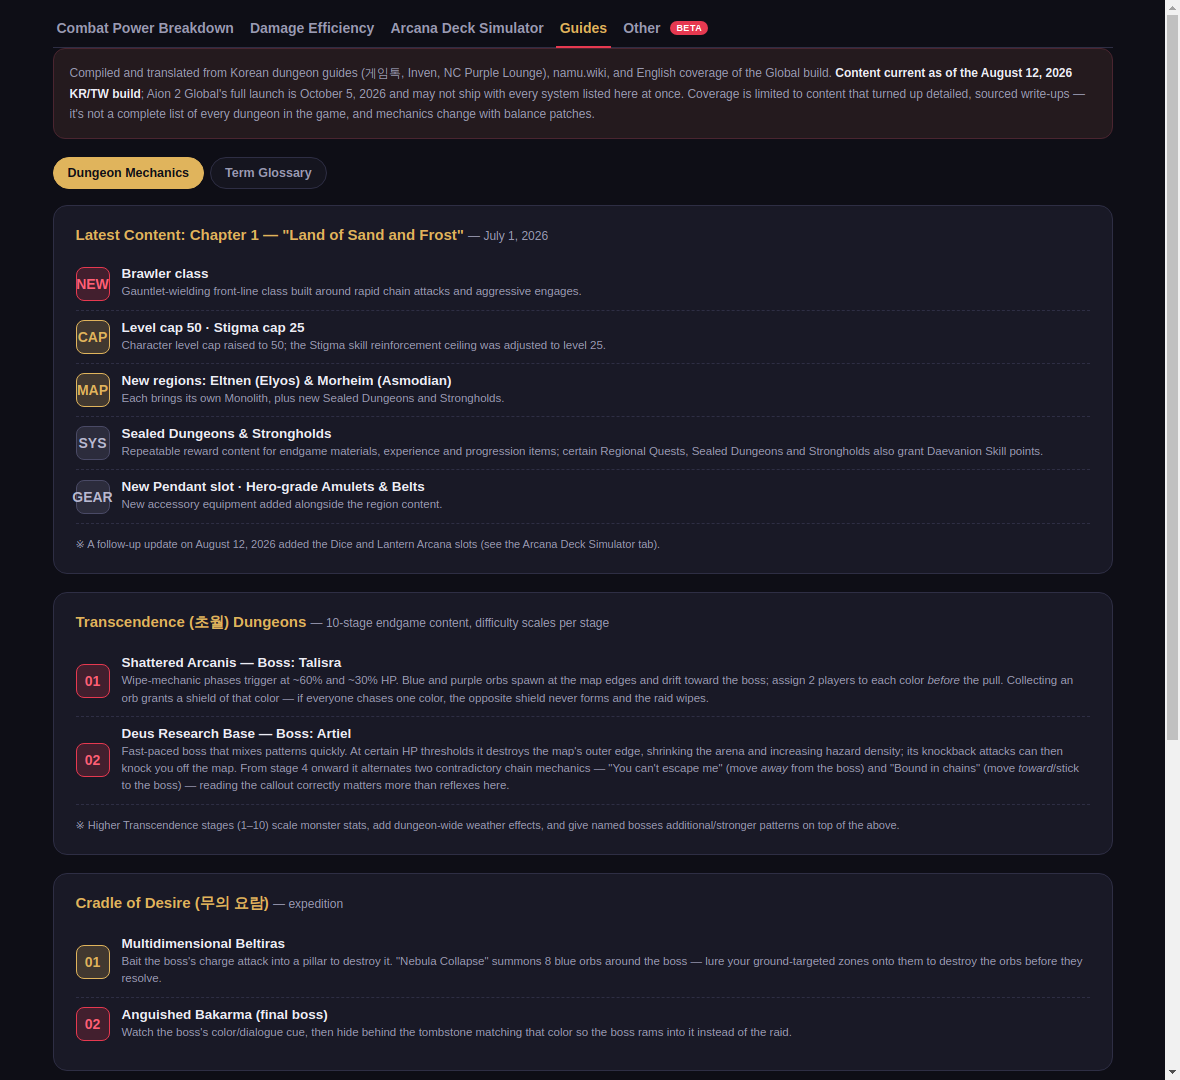
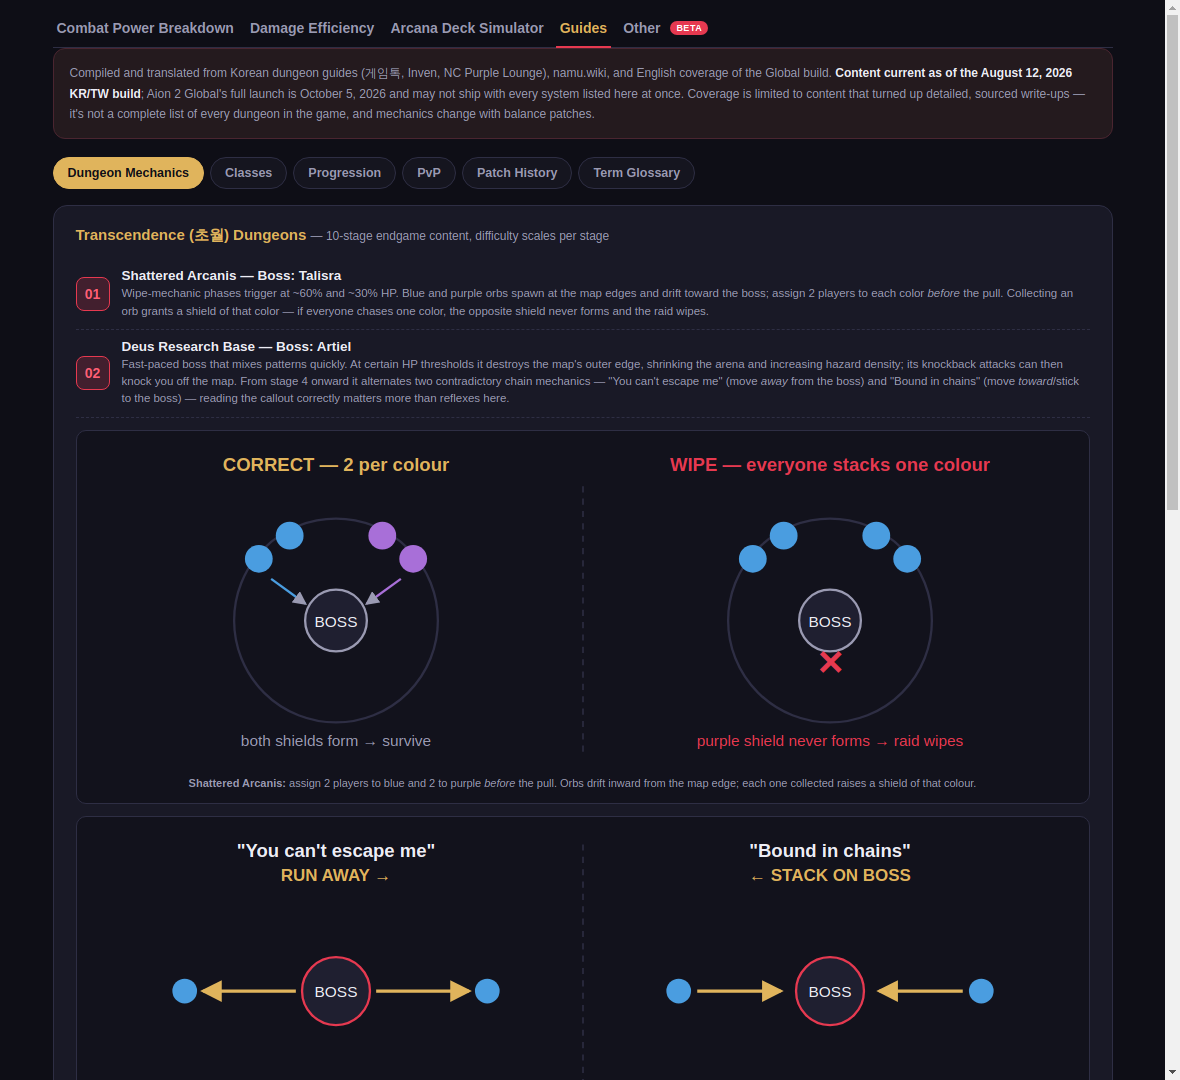
Restructure Guides into 6 categories, add mechanic diagrams
Splits Guides into Dungeon Mechanics (now with three original inline-SVG
boss-mechanic diagrams), Classes, Progression, PvP, Patch History and
Term Glossary — moving Chapter 1 patch content out of Dungeon Mechanics
where it didn't belong.

Claude-Session: https://claude.ai/code/session_01SQ6BczPMuWFshtfUDpAGGM

diff --git a/src/index.html b/src/index.html
@@ -88,6 +88,9 @@
   .subtabpanel{display:none;margin-top:16px}
   .subtabpanel.active{display:block}
   .beta-badge{display:inline-block;background:var(--red);color:#fff;font-size:9px;font-weight:800;letter-spacing:.5px;padding:2px 6px;border-radius:999px;margin-left:6px;vertical-align:middle;position:relative;top:-1px}
+  .diagram{background:#12121c;border:1px solid var(--line);border-radius:10px;padding:12px;margin-top:12px;overflow-x:auto}
+  .diagram svg{display:block;max-width:100%;height:auto;margin:0 auto}
+  .diagram .cap{font-size:11px;color:var(--muted);text-align:center;margin-top:8px;line-height:1.5}
   /* checklist */
   .chk-item{display:flex;align-items:flex-start;gap:10px;padding:8px 0;border-bottom:1px dashed var(--line)}
   .chk-item:last-child{border-bottom:none}
@@ -404,25 +407,68 @@
     </div>
     <div class="subtabs">
       <button class="subtab-btn active" data-subtab="dungeons">Dungeon Mechanics</button>
+      <button class="subtab-btn" data-subtab="classes">Classes</button>
+      <button class="subtab-btn" data-subtab="progression">Progression</button>
+      <button class="subtab-btn" data-subtab="pvp">PvP</button>
+      <button class="subtab-btn" data-subtab="patches">Patch History</button>
       <button class="subtab-btn" data-subtab="glossary">Term Glossary</button>
     </div>
 
     <!-- Dungeon Mechanics -->
     <div id="sub-dungeons" class="subtabpanel active">
       <div class="card">
-        <h2>Latest Content: Chapter 1 — "Land of Sand and Frost" <span style="color:var(--muted);font-weight:400;font-size:12px">— July 1, 2026</span></h2>
-        <div class="tier-row"><div class="tier-badge tier-S">NEW</div><div><div class="tier-name">Brawler class</div><div class="tier-desc">Gauntlet-wielding front-line class built around rapid chain attacks and aggressive engages.</div></div></div>
-        <div class="tier-row"><div class="tier-badge tier-A">CAP</div><div><div class="tier-name">Level cap 50 · Stigma cap 25</div><div class="tier-desc">Character level cap raised to 50; the Stigma skill reinforcement ceiling was adjusted to level 25.</div></div></div>
-        <div class="tier-row"><div class="tier-badge tier-A">MAP</div><div><div class="tier-name">New regions: Eltnen (Elyos) & Morheim (Asmodian)</div><div class="tier-desc">Each brings its own Monolith, plus new Sealed Dungeons and Strongholds.</div></div></div>
-        <div class="tier-row"><div class="tier-badge tier-B">SYS</div><div><div class="tier-name">Sealed Dungeons & Strongholds</div><div class="tier-desc">Repeatable reward content for endgame materials, experience and progression items; certain Regional Quests, Sealed Dungeons and Strongholds also grant Daevanion Skill points.</div></div></div>
-        <div class="tier-row"><div class="tier-badge tier-B">GEAR</div><div><div class="tier-name">New Pendant slot · Hero-grade Amulets & Belts</div><div class="tier-desc">New accessory equipment added alongside the region content.</div></div></div>
-        <div class="note">※ A follow-up update on August 12, 2026 added the Dice and Lantern Arcana slots (see the Arcana Deck Simulator tab).</div>
-      </div>
-
-      <div class="card" style="margin-top:18px">
         <h2>Transcendence (초월) Dungeons <span style="color:var(--muted);font-weight:400;font-size:12px">— 10-stage endgame content, difficulty scales per stage</span></h2>
         <div class="tier-row"><div class="tier-badge tier-S">01</div><div><div class="tier-name">Shattered Arcanis — Boss: Talisra</div><div class="tier-desc">Wipe-mechanic phases trigger at ~60% and ~30% HP. Blue and purple orbs spawn at the map edges and drift toward the boss; assign 2 players to each color <i>before</i> the pull. Collecting an orb grants a shield of that color — if everyone chases one color, the opposite shield never forms and the raid wipes.</div></div></div>
         <div class="tier-row"><div class="tier-badge tier-S">02</div><div><div class="tier-name">Deus Research Base — Boss: Artiel</div><div class="tier-desc">Fast-paced boss that mixes patterns quickly. At certain HP thresholds it destroys the map's outer edge, shrinking the arena and increasing hazard density; its knockback attacks can then knock you off the map. From stage 4 onward it alternates two contradictory chain mechanics — "You can't escape me" (move <i>away</i> from the boss) and "Bound in chains" (move <i>toward</i>/stick to the boss) — reading the callout correctly matters more than reflexes here.</div></div></div>
+
+        <div class="diagram">
+          <svg viewBox="0 0 640 210" role="img" aria-label="Shattered Arcanis orb and shield assignment diagram">
+            <text x="160" y="18" text-anchor="middle" fill="#e0b45c" font-size="12" font-weight="700" font-family="sans-serif">CORRECT — 2 per colour</text>
+            <text x="480" y="18" text-anchor="middle" fill="#e63950" font-size="12" font-weight="700" font-family="sans-serif">WIPE — everyone stacks one colour</text>
+            <line x1="320" y1="28" x2="320" y2="200" stroke="#2e2e44" stroke-width="1" stroke-dasharray="4 4"/>
+            <circle cx="160" cy="115" r="66" fill="none" stroke="#2e2e44" stroke-width="1.5"/>
+            <circle cx="160" cy="115" r="20" fill="#1f1f30" stroke="#9a9ab2" stroke-width="1.5"/>
+            <text x="160" y="119" text-anchor="middle" fill="#ededf5" font-size="10" font-family="sans-serif">BOSS</text>
+            <circle cx="110" cy="75" r="9" fill="#4a9de0"/><circle cx="130" cy="60" r="9" fill="#4a9de0"/>
+            <circle cx="190" cy="60" r="9" fill="#a86fd8"/><circle cx="210" cy="75" r="9" fill="#a86fd8"/>
+            <path d="M118 88 L140 104" stroke="#4a9de0" stroke-width="1.5" marker-end="url(#ah)"/>
+            <path d="M202 88 L180 104" stroke="#a86fd8" stroke-width="1.5" marker-end="url(#ah)"/>
+            <text x="160" y="196" text-anchor="middle" fill="#9a9ab2" font-size="10" font-family="sans-serif">both shields form → survive</text>
+            <circle cx="480" cy="115" r="66" fill="none" stroke="#2e2e44" stroke-width="1.5"/>
+            <circle cx="480" cy="115" r="20" fill="#1f1f30" stroke="#9a9ab2" stroke-width="1.5"/>
+            <text x="480" y="119" text-anchor="middle" fill="#ededf5" font-size="10" font-family="sans-serif">BOSS</text>
+            <circle cx="430" cy="75" r="9" fill="#4a9de0"/><circle cx="450" cy="60" r="9" fill="#4a9de0"/>
+            <circle cx="510" cy="60" r="9" fill="#4a9de0"/><circle cx="530" cy="75" r="9" fill="#4a9de0"/>
+            <text x="480" y="150" text-anchor="middle" fill="#e63950" font-size="22" font-weight="800" font-family="sans-serif">✕</text>
+            <text x="480" y="196" text-anchor="middle" fill="#e63950" font-size="10" font-family="sans-serif">purple shield never forms → raid wipes</text>
+            <defs><marker id="ah" markerWidth="6" markerHeight="6" refX="5" refY="3" orient="auto"><path d="M0,0 L6,3 L0,6 z" fill="#9a9ab2"/></marker></defs>
+          </svg>
+          <div class="cap"><b>Shattered Arcanis:</b> assign 2 players to blue and 2 to purple <i>before</i> the pull. Orbs drift inward from the map edge; each one collected raises a shield of that colour.</div>
+        </div>
+
+        <div class="diagram">
+          <svg viewBox="0 0 640 190" role="img" aria-label="Deus Research Base chain callout diagram">
+            <text x="160" y="18" text-anchor="middle" fill="#ededf5" font-size="12" font-weight="700" font-family="sans-serif">"You can't escape me"</text>
+            <text x="160" y="34" text-anchor="middle" fill="#e0b45c" font-size="11" font-weight="700" font-family="sans-serif">RUN AWAY →</text>
+            <circle cx="160" cy="105" r="22" fill="#1f1f30" stroke="#e63950" stroke-width="1.5"/>
+            <text x="160" y="109" text-anchor="middle" fill="#ededf5" font-size="10" font-family="sans-serif">BOSS</text>
+            <path d="M186 105 L246 105" stroke="#e0b45c" stroke-width="2" marker-end="url(#ah2)"/>
+            <path d="M134 105 L74 105" stroke="#e0b45c" stroke-width="2" marker-end="url(#ah2)"/>
+            <circle cx="258" cy="105" r="8" fill="#4a9de0"/><circle cx="62" cy="105" r="8" fill="#4a9de0"/>
+            <line x1="320" y1="10" x2="320" y2="180" stroke="#2e2e44" stroke-width="1" stroke-dasharray="4 4"/>
+            <text x="480" y="18" text-anchor="middle" fill="#ededf5" font-size="12" font-weight="700" font-family="sans-serif">"Bound in chains"</text>
+            <text x="480" y="34" text-anchor="middle" fill="#e0b45c" font-size="11" font-weight="700" font-family="sans-serif">← STACK ON BOSS</text>
+            <circle cx="480" cy="105" r="22" fill="#1f1f30" stroke="#e63950" stroke-width="1.5"/>
+            <text x="480" y="109" text-anchor="middle" fill="#ededf5" font-size="10" font-family="sans-serif">BOSS</text>
+            <path d="M566 105 L512 105" stroke="#e0b45c" stroke-width="2" marker-end="url(#ah2)"/>
+            <path d="M394 105 L448 105" stroke="#e0b45c" stroke-width="2" marker-end="url(#ah2)"/>
+            <circle cx="578" cy="105" r="8" fill="#4a9de0"/><circle cx="382" cy="105" r="8" fill="#4a9de0"/>
+            <text x="320" y="176" text-anchor="middle" fill="#9a9ab2" font-size="10" font-family="sans-serif">Stage 4+ alternates both — read the callout, don't guess</text>
+            <defs><marker id="ah2" markerWidth="7" markerHeight="7" refX="6" refY="3.5" orient="auto"><path d="M0,0 L7,3.5 L0,7 z" fill="#e0b45c"/></marker></defs>
+          </svg>
+          <div class="cap"><b>Deus Research Base:</b> two chain callouts that demand opposite reactions. The arena also shrinks at HP thresholds, so knockbacks near the edge become lethal.</div>
+        </div>
+
         <div class="note">※ Higher Transcendence stages (1–10) scale monster stats, add dungeon-wide weather effects, and give named bosses additional/stronger patterns on top of the above.</div>
       </div>
 
@@ -430,6 +476,26 @@
         <h2>Cradle of Desire (무의 요람) <span style="color:var(--muted);font-weight:400;font-size:12px">— expedition</span></h2>
         <div class="tier-row"><div class="tier-badge tier-A">01</div><div><div class="tier-name">Multidimensional Beltiras</div><div class="tier-desc">Bait the boss's charge attack into a pillar to destroy it. "Nebula Collapse" summons 8 blue orbs around the boss — lure your ground-targeted zones onto them to destroy the orbs before they resolve.</div></div></div>
         <div class="tier-row"><div class="tier-badge tier-S">02</div><div><div class="tier-name">Anguished Bakarma (final boss)</div><div class="tier-desc">Watch the boss's color/dialogue cue, then hide behind the tombstone matching that color so the boss rams into it instead of the raid.</div></div></div>
+        <div class="diagram">
+          <svg viewBox="0 0 640 200" role="img" aria-label="Anguished Bakarma tombstone colour-matching diagram">
+            <text x="320" y="18" text-anchor="middle" fill="#e0b45c" font-size="12" font-weight="700" font-family="sans-serif">Boss glows a colour → line up behind the MATCHING tombstone</text>
+            <rect x="290" y="40" width="60" height="34" rx="6" fill="#1f1f30" stroke="#a86fd8" stroke-width="2"/>
+            <text x="320" y="62" text-anchor="middle" fill="#a86fd8" font-size="11" font-weight="700" font-family="sans-serif">BOSS</text>
+            <text x="320" y="90" text-anchor="middle" fill="#a86fd8" font-size="10" font-family="sans-serif">cue: purple</text>
+            <rect x="90" y="120" width="46" height="56" rx="4" fill="#1f1f30" stroke="#4a9de0" stroke-width="2"/>
+            <text x="113" y="152" text-anchor="middle" fill="#4a9de0" font-size="10" font-family="sans-serif">blue</text>
+            <rect x="297" y="120" width="46" height="56" rx="4" fill="#2a1f38" stroke="#a86fd8" stroke-width="2.5"/>
+            <text x="320" y="152" text-anchor="middle" fill="#a86fd8" font-size="10" font-weight="700" font-family="sans-serif">purple</text>
+            <rect x="504" y="120" width="46" height="56" rx="4" fill="#1f1f30" stroke="#5fbf7f" stroke-width="2"/>
+            <text x="527" y="152" text-anchor="middle" fill="#5fbf7f" font-size="10" font-family="sans-serif">green</text>
+            <path d="M320 96 L320 114" stroke="#a86fd8" stroke-width="2.5" marker-end="url(#ah3)"/>
+            <circle cx="300" cy="190" r="7" fill="#ededf5"/><circle cx="320" cy="192" r="7" fill="#ededf5"/><circle cx="340" cy="190" r="7" fill="#ededf5"/>
+            <text x="113" y="194" text-anchor="middle" fill="#5c5c70" font-size="9" font-family="sans-serif">wrong — no cover</text>
+            <text x="527" y="194" text-anchor="middle" fill="#5c5c70" font-size="9" font-family="sans-serif">wrong — no cover</text>
+            <defs><marker id="ah3" markerWidth="7" markerHeight="7" refX="6" refY="3.5" orient="auto"><path d="M0,0 L7,3.5 L0,7 z" fill="#a86fd8"/></marker></defs>
+          </svg>
+          <div class="cap"><b>Anguished Bakarma:</b> the boss charges the tombstone matching its own colour — stand behind that one so it rams the stone instead of the raid.</div>
+        </div>
       </div>
 
       <div class="card" style="margin-top:18px">
@@ -443,6 +509,96 @@
       <div class="card" style="margin-top:18px">
         <h2>Temple of Fire (불의 신전) <span style="color:var(--muted);font-weight:400;font-size:12px">— nicknamed "the Wall of Tears," a known difficulty spike</span></h2>
         <div class="note" style="margin-top:0">Boss: Chromede's Desire. Widely reported as one of the harder difficulty gates in current content, but we couldn't source a clear, sourced breakdown of its specific boss patterns the way we could for the dungeons above — treat this entry as "known to be hard," not a mechanics guide, until better sources turn up.</div>
+      </div>
+    </div>
+
+    <!-- Classes -->
+    <div id="sub-classes" class="subtabpanel">
+      <div class="card">
+        <h2>All 9 Classes <span style="color:var(--muted);font-weight:400;font-size:12px">— 8 at launch, Brawler added in Chapter 1</span></h2>
+        <table class="attr">
+          <tr><th>Class</th><th>Role</th><th>Playstyle</th></tr>
+          <tr><td><b>Templar</b></td><td class="num">Tank</td><td>Shield-bearing guardian — seizes enemy attention and holds the front line.</td></tr>
+          <tr><td><b>Gladiator</b></td><td class="num">Melee DPS</td><td>Hard-hitting frontline fighter built around sustained damage.</td></tr>
+          <tr><td><b>Assassin</b></td><td class="num">Melee DPS</td><td>Burst-focused striker — hits hard and slips away. Highest attack speed.</td></tr>
+          <tr><td><b>Brawler</b></td><td class="num">Melee DPS</td><td>Gauntlet class from Chapter 1 — rapid chain attacks and aggressive front-line engages.</td></tr>
+          <tr><td><b>Ranger</b></td><td class="num">Ranged DPS</td><td>Bow specialist who controls space from a distance; forgiving to level.</td></tr>
+          <tr><td><b>Sorcerer</b></td><td class="num">Magic DPS</td><td>Heavy spell damage plus crowd control (ice/fire control, blink).</td></tr>
+          <tr><td><b>Spiritmaster</b><br><span style="font-size:10.5px;color:var(--muted)">(a.k.a. Elementalist)</span></td><td class="num">Magic DPS</td><td>Summoner — pets, zone control and sustained damage over time.</td></tr>
+          <tr><td><b>Cleric</b></td><td class="num">Healer</td><td>Core healer with shield/mace hybrid damage; group heals and shields, strong in both PvE and PvP.</td></tr>
+          <tr><td><b>Chanter</b></td><td class="num">Support</td><td>Buffs and bolsters the group while holding its own in a fight.</td></tr>
+        </table>
+        <div class="note">
+          ※ Beginner-friendliest picks are usually Templar (simple rotation, always wanted) or Cleric (highest group demand). Assassin and Sorcerer have the highest skill ceilings.<br>
+          ※ "Spiritmaster" and "Elementalist" appear to be two translations of the same pet/control caster — NC hadn't settled the final Global English name at the time of writing, so you may see either.<br>
+          ※ Class balance shifts every patch; this table covers roles and identity, which are stable, rather than a tier list, which isn't.
+        </div>
+      </div>
+    </div>
+
+    <!-- Progression -->
+    <div id="sub-progression" class="subtabpanel">
+      <div class="card">
+        <h2>Two Numbers That Gate Everything <span style="color:var(--muted);font-weight:400;font-size:12px">— Gear Score vs Combat Power</span></h2>
+        <div class="tier-row"><div class="tier-badge tier-A">GS</div><div><div class="tier-name">Gear Score / Item Level</div><div class="tier-desc">The <b>gatekeeper</b>. Content checks this to let you in — item level ~1,000 is the threshold for finishing the story and entering the first endgame dungeons. You can be gear-score-eligible and still be too weak.</div></div></div>
+        <div class="tier-row"><div class="tier-badge tier-S">CP</div><div><div class="tier-name">Combat Power</div><div class="tier-desc">Your <b>actual power</b>, and what other players judge you by. See the Combat Power Breakdown tab for what actually raises it — and why it can disagree with your real damage.</div></div></div>
+        <div class="note">※ Published CP milestone numbers vary wildly between guides (we've seen "550+", "2,400+" and "46,000" all used as goalposts) — most likely different scales or pre/post-rescale patches. We're not repeating a specific target here because we couldn't reconcile them; use the progression <i>order</i> below instead, which every source agrees on.</div>
+      </div>
+
+      <div class="card" style="margin-top:18px">
+        <h2>Endgame Progression Order <span style="color:var(--muted);font-weight:400;font-size:12px">— what to farm, in what order</span></h2>
+        <div class="tier-row"><div class="tier-badge tier-S">1</div><div><div class="tier-name">Finish the main story → level cap</div><div class="tier-desc">Non-negotiable first step; the story carries you to the item level that unlocks endgame content.</div></div></div>
+        <div class="tier-row"><div class="tier-badge tier-A">2</div><div><div class="tier-name">Clear out the map: green quests, Sealed Dungeons, Strongholds, missed feathers</div><div class="tier-desc">Do these across <b>both</b> friendly and enemy territory. Cheap, one-time power that most players leave on the table. Some also grant Daevanion Skill points.</div></div></div>
+        <div class="tier-row"><div class="tier-badge tier-A">3</div><div><div class="tier-name">Transcendence stages 1–3</div><div class="tier-desc">The main early-endgame loop, and where you start filling empty <b>Arcana</b> slots.</div></div></div>
+        <div class="tier-row"><div class="tier-badge tier-B">4</div><div><div class="tier-name">Abyss gear (PvP currency)</div><div class="tier-desc">Bought with Abyss Points — see the PvP tab.</div></div></div>
+        <div class="tier-row"><div class="tier-badge tier-B">5</div><div><div class="tier-name">Vakron → Temple of Fire</div><div class="tier-desc">The late-game difficulty gates; Temple of Fire is nicknamed "the Wall of Tears" for a reason.</div></div></div>
+        <div class="note">
+          ※ Priority within any stage: <b>weapon and accessories first</b> — they carry the most damage per upgrade (see Soul Engraving priority in the Combat Power tab).<br>
+          ※ Parallel long-term tracks that never stop paying: pets, wings, Pantheon/Monolith stats, Arcana, Stigma skills, and crafted endgame gear.
+        </div>
+      </div>
+    </div>
+
+    <!-- PvP -->
+    <div id="sub-pvp" class="subtabpanel">
+      <div class="card">
+        <h2>PvP Systems</h2>
+        <div class="tier-row"><div class="tier-badge tier-S">1</div><div><div class="tier-name">The Abyss — open-world faction warfare</div><div class="tier-desc">Aion's signature PvP space: a three-dimensional zone where Elyos and Asmodians fight over territory, contested world bosses and siege-style objectives on repeatable reward loops. Note the structural change from the original Aion — factions meet in <b>designated areas/modes</b> rather than through the old massive fortress sieges.</div></div></div>
+        <div class="tier-row"><div class="tier-badge tier-A">2</div><div><div class="tier-name">Rifting — invading enemy territory</div><div class="tier-desc">Rift events temporarily open passages into normally-safe enemy zones. Aion 2 adds a <b>War Mode toggle</b>: entering a rift defaults to PvE safety, and you manually flag War Mode to become attackable (and able to attack).</div></div></div>
+        <div class="tier-row"><div class="tier-badge tier-A">3</div><div><div class="tier-name">Arenas — instanced, rated</div><div class="tier-desc">Structured formats with queuing, matchmaking and rating. Arena of Solitude is the 1v1 format. <b>Gear is not equalized</b> — progression and optimization carry directly into arena results.</div></div></div>
+        <div class="tier-row"><div class="tier-badge tier-B">4</div><div><div class="tier-name">Abyss Points (AP) — the PvP currency</div><div class="tier-desc">The main PvP currency, and the only way to buy PvP gear. Weekly AP earning is capped (PvE hunting and PvP share the same allowance).</div></div></div>
+        <div class="note">
+          ※ Ranking tracks three separate things: individual Abyss rank (total AP accumulated), per-format Arena rating, and seasonal rankings across all formats.<br>
+          ※ For PvP stat priority specifically, note from the Combat Power tab that <b>Critical Damage is far weaker in PvP</b> (1.25× base multiplier instead of PvE's 1.5×, and the Critical Damage stat is only ~15% as effective), and that the Indomitability Arcana set is the PvP-defensive pick.
+        </div>
+      </div>
+    </div>
+
+    <!-- Patch History -->
+    <div id="sub-patches" class="subtabpanel">
+      <div class="card">
+        <h2>Chapter 1 — "Land of Sand and Frost" <span style="color:var(--muted);font-weight:400;font-size:12px">— July 1, 2026</span></h2>
+        <div class="tier-row"><div class="tier-badge tier-S">NEW</div><div><div class="tier-name">Brawler class</div><div class="tier-desc">Gauntlet-wielding front-line class built around rapid chain attacks and aggressive engages.</div></div></div>
+        <div class="tier-row"><div class="tier-badge tier-A">CAP</div><div><div class="tier-name">Level cap 50 · Stigma cap 25</div><div class="tier-desc">Character level cap raised to 50; the Stigma skill reinforcement ceiling was adjusted to level 25.</div></div></div>
+        <div class="tier-row"><div class="tier-badge tier-A">MAP</div><div><div class="tier-name">New regions: Eltnen (Elyos) & Morheim (Asmodian)</div><div class="tier-desc">Each brings its own Monolith, plus new Sealed Dungeons and Strongholds.</div></div></div>
+        <div class="tier-row"><div class="tier-badge tier-A">ARC</div><div><div class="tier-name">Key & Hourglass Arcana slots</div><div class="tier-desc">Two new Arcana equipment slots, bringing the roster to 8.</div></div></div>
+        <div class="tier-row"><div class="tier-badge tier-B">SYS</div><div><div class="tier-name">Sealed Dungeons & Strongholds</div><div class="tier-desc">Repeatable reward content for endgame materials, experience and progression items; certain Regional Quests, Sealed Dungeons and Strongholds also grant Daevanion Skill points.</div></div></div>
+        <div class="tier-row"><div class="tier-badge tier-B">GEAR</div><div><div class="tier-name">New Pendant slot · Hero-grade Amulets & Belts</div><div class="tier-desc">New accessory equipment added alongside the region content.</div></div></div>
+      </div>
+
+      <div class="card" style="margin-top:18px">
+        <h2>Timeline <span style="color:var(--muted);font-weight:400;font-size:12px">— the changes this app tracks</span></h2>
+        <table class="attr">
+          <tr><th>Date</th><th>Change</th><th>Affects</th></tr>
+          <tr><td>Nov 2025</td><td>Aion 2 launches in Korea &amp; Taiwan</td><td class="num">—</td></tr>
+          <tr><td>Dec 2025</td><td>Regular field-boss cooldowns broadly halved</td><td class="num">Boss Timer</td></tr>
+          <tr><td>2026 (Season 3)</td><td>Punishment, Guardian &amp; Indomitability Arcana sets added; Pantheon stats on new sets up to +5 higher</td><td class="num">Arcana</td></tr>
+          <tr><td>2026</td><td>Combat Power reweighted: Smite/Accuracy/Critical up, Penetration/Spirit down</td><td class="num">Combat Power</td></tr>
+          <tr><td>Jul 1, 2026</td><td>Chapter 1 — Brawler, level 50, Eltnen/Morheim, Key + Hourglass Arcana</td><td class="num">Guides, Arcana</td></tr>
+          <tr><td>Aug 12, 2026</td><td>Dice + Lantern Arcana slots added (roster reaches 10)</td><td class="num">Arcana</td></tr>
+          <tr><td>Oct 5, 2026</td><td>Aion 2 Global full launch (NA/SA/EU/Asia, 10 languages)</td><td class="num">All</td></tr>
+        </table>
+        <div class="note">※ Global may not ship with every KR/TW system at once — treat KR/TW-dated entries above as "exists on the Korean/Taiwan build," not a guarantee for your server.</div>
       </div>
     </div>
 
